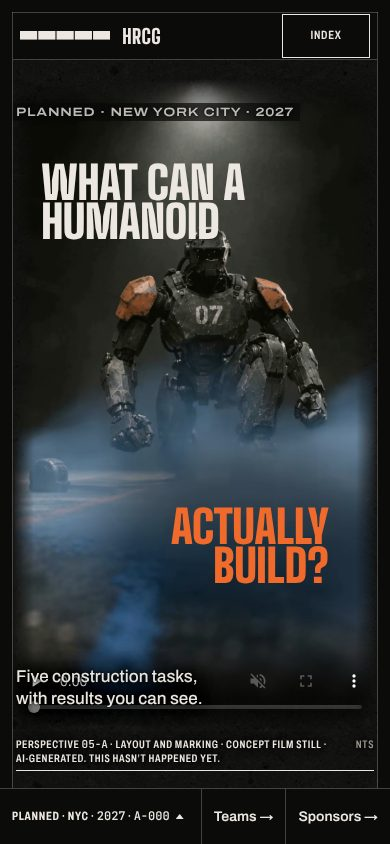
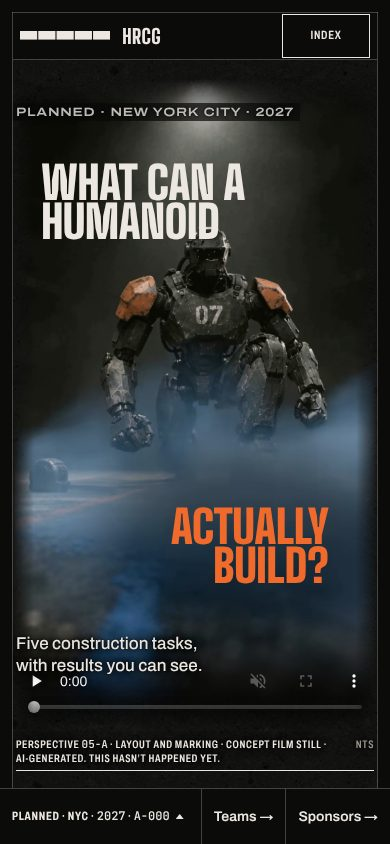
HRCG: fix wave 1 WIP
Claude-Session: https://claude.ai/code/session_015WdS4Z5aqY4SfmCswLAKaP

Changed region(s): [[0.0308, 0.7393, 0.5231, 0.8626]]

diff --git a/hrcg/src/hero/cover.css b/hrcg/src/hero/cover.css
@@ -486,7 +486,7 @@
 }
 /* no JS: the frame carries the film's native controls along its bottom edge; the sub stands clear of them */
 .no-js .cv-sub {
-  bottom: 52px;
+  bottom: 64px;
 }
 .cv-hint {
   position: absolute;

diff --git a/hrcg/pipeline/qa_shipped.py b/hrcg/pipeline/qa_shipped.py
@@ -32,13 +32,23 @@ def livery(f, plan):
         m[:int(0.06 * H)] = 0; m[int(0.94 * H):] = 0; m[:, :int(0.06 * W)] = 0; m[:, int(0.94 * W):] = 0
     n, lab, st, _ = cv2.connectedComponentsWithStats(m, 8)
     return int(sum(st[i, 4] for i in range(1, n) if st[i, 4] >= 12))
-# tool ROIs on the SHIPPED (registered) plan frame, normalised, a little larger than the mezz.py --livery2 boxes
-# (registration moves a bay by a few %); hue in degrees; frames in source frames (plans keep the frame count)
-TOOLS = {
-    'b41': [((8, 32), (0.10, 0.56, 0.29, 0.84), (0, 87)), ((8, 32), (0.10, 0.53, 0.33, 0.70), (72, 95)), ((8, 32), (0.28, 0.48, 0.64, 0.69), (84, 97)), ((8, 32), (0.46, 0.22, 0.78, 0.66), (94, 120))],
-    'b42': [((345, 15), (0.04, 0.04, 0.96, 0.96), (0, 120))],
-    'b43': [((345, 15), (0.66, 0.26, 0.92, 0.50), (0, 120))],
+# tool ROIs: the SAME source boxes as pipeline/run_mezz.sh --livery2 (normalised to the 1440² source bay), mapped
+# into the shipped (registered) frame with D7's per-axis scale/offset (pipeline/out/registration.json)
+SRC_TOOLS = {
+    'b41': [((8, 32), (0.12, 0.58, 0.27, 0.82), (0, 87)), ((8, 32), (0.12, 0.55, 0.31, 0.69), (72, 95)),
+            ((8, 32), (0.30, 0.50, 0.62, 0.67), (84, 97)), ((8, 32), (0.48, 0.24, 0.82, 0.66), (94, 120))],
+    'b42': [((345, 15), (0.06, 0.06, 0.94, 0.94), (0, 120))],
+    'b43': [((345, 15), (0.68, 0.28, 0.90, 0.48), (0, 120))],
 }
+REG = json.load(open(R + '/pipeline/out/registration.json')) if os.path.exists(R + '/pipeline/out/registration.json') else {}
+def reg_box(b, box):
+    r = REG.get(b)
+    if not r: return box
+    (sx, sy), (ox, oy) = r['scale'], r['offset']; x0, y0, x1, y1 = box
+    return ((x0 * 1440 * sx + ox) / 1440, (y0 * 1440 * sy + oy) / 1440, (x1 * 1440 * sx + ox) / 1440, (y1 * 1440 * sy + oy) / 1440)
+TOOLS = {b: [(h, reg_box(b, bx), fr) for h, bx, fr in rules] for b, rules in SRC_TOOLS.items()}
+# tape-measure ROIs (yellow-and-black trade dress, D11) in the clips that carry a tape: the hero films (c34, N01b)
+TAPE = {'hero-snap-169': (0.08, 0.60, 0.30, 0.84), 'hero-snap-916': (0.0, 0.52, 0.25, 0.68)}
 def tool_livery(f, rules, i):
     hsv = cv2.cvtColor(f.astype(np.float32) / 255., cv2.COLOR_BGR2HSV); h, sa, va = hsv[..., 0], hsv[..., 1], hsv[..., 2]
     H, W = h.shape; tot = 0
@@ -76,7 +86,11 @@ for id, e in man.items():
         if box:
             x0, y0, x1, y1 = int(box[0] * W), int(box[1] * H), int(box[2] * W), int(box[3] * H)
             pts.append(tophat_points(f[y0:y1, x0:x1]))
-        liv.append(livery(f, plan))
+        if id in TAPE:
+            x0, y0, x1, y1 = TAPE[id]; sub = f[int(y0 * H):int(y1 * H), int(x0 * W):int(x1 * W)]
+            liv.append(livery(np.ascontiguousarray(sub), False))
+        else:
+            liv.append(livery(f, plan))
         if trules: tl.append(tool_livery(f, trules, k_))
     res[id] = {'frames': len(frames), 'size': [W, H], 'visorPointsMax': max(pts) if pts else None,
                'visorFramesWithPoints': int(sum(1 for p in pts if p > 0)) if pts else None,
@@ -115,10 +129,19 @@ for pth in cands:
     if not os.path.exists(pth): continue
     im = cv2.imread(pth)
     if im is None: continue
-    y = livery(im, False) * (1440 * 1440) / (im.shape[0] * im.shape[1])
-    stills[os.path.relpath(pth, R)] = {'yellowPx': int(livery(im, False)), 'redPx': red_px(im), 'liveryFrames': int(livery(im, False) >= 25 or red_px(im) >= 200)}
+    bay = os.path.basename(pth).startswith('b4')          # bay stills: the yellow bay border is not livery
+    ypx = livery(cv2.resize(im, (1440, 1440)) if bay else im, bay)
+    stills[os.path.relpath(pth, R)] = {'yellowPx': int(ypx), 'redPx': red_px(im), 'liveryFrames': int(ypx >= 25 or red_px(im) >= 200)}
 res['_stills'] = stills
-res['_summary'] = {'liveryFrames': int(sum(v.get('liveryFrames') or 0 for k, v in res.items() if not k.startswith('_')) + sum(v['liveryFrames'] for v in stills.values())),
-                   'toolLiveryFrames': int(sum(v.get('toolLiveryFrames') or 0 for k, v in res.items() if not k.startswith('_')))}
+# The GATE (F-010 / F-048): tape-measure livery in the clips that carry a tape (TAPE ROIs) and in b44 (bay band
+# excluded), tool livery in the plan tool ROIs, and every social card / poster / film still. Yellow found elsewhere
+# is the set's own brass fittings, copper, bricks or the bay tape of the arena row: listed, not gated.
+GATED = set(TAPE) | {k for k in res if k.startswith('plan-b44')}
+res['_summary'] = {'liveryFrames': int(sum(res[k].get('liveryFrames') or 0 for k in GATED if k in res) + sum(v.get('toolLiveryFrames') or 0 for k, v in res.items() if not k.startswith('_'))
+                                       + sum(v['liveryFrames'] for v in stills.values())),
+                   'toolLiveryFrames': int(sum(v.get('toolLiveryFrames') or 0 for k, v in res.items() if not k.startswith('_'))),
+                   'tapeLiveryFrames': int(sum(res[k].get('liveryFrames') or 0 for k in GATED if k in res)),
+                   'stillsLivery': int(sum(v['liveryFrames'] for v in stills.values())),
+                   'yellowElsewhereInfo': {k: v['liveryFrames'] for k, v in res.items() if not k.startswith('_') and k not in GATED and v.get('liveryFrames')}}
 print('_stills', json.dumps(stills)); print('_summary', json.dumps(res['_summary']))
 json.dump(res, open(R + '/pipeline/out/assets-shipped.json', 'w'), indent=1)

diff --git a/hrcg/pipeline/freeze.py b/hrcg/pipeline/freeze.py
@@ -321,7 +321,8 @@ def stretch_gate(yaw, pitch, dolly, pivot, k=1.0, nbs=None):
     in1 = i_ac & i_ab & i_cb; in2 = i_cb & i_bd & i_cd
     cx = ((np.arange(COLS - 1) + .5) / (COLS - 1) * (W - 1)).astype(int); cy = ((np.arange(ROWS - 1) + .5) / (ROWS - 1) * (H - 1)).astype(int)
     dist = cv2.distanceTransform((MATTE < 0.5).astype(np.uint8), cv2.DIST_L2, 5)[cy][:, cx]
-    band = (dist <= 3 * CELL) & (cy[:, None] <= MATTE_CUT - 3 * CELL)
+    # above the matte's soft cut (ramp 0.03 H): along the cut the matte edge is the horizontal cut, not 07's silhouette
+    band = (dist <= 3 * CELL) & (cy[:, None] <= MATTE_CUT - 0.03 * H - 3 * CELL)
     vis = np.concatenate([vis1, vis2]); inm = np.concatenate([in1, in2]); bnd = np.concatenate([band, band])
     # a STREAK is a visible triangle that spans a depth step (z range >= EDGE_LO, A2's own continuity threshold);
     # smoothly sloped triangles (07's relief, the floor) deform with the view and are geometry, not streaks

diff --git a/hrcg/pipeline/README.md b/hrcg/pipeline/README.md
@@ -15,19 +15,19 @@ This folder turns the raw concept clips and stills into everything under `public
 |---|---|---|---|
 | D11 | `measure.py` | Per-frame visor-glint and yellow-livery scan, plus an SSIM seam search (≥0.97 overall and ≥0.90 inside the motion mask). It also measures bay borders. | `out/assets-*.json`, `out/seams.json` |
 | D4 | `crowdcrush.py` | Depth at 518 px on every 2nd frame, stabilised (median-aligned + EMA). | `$S/a5tmp/depth/*.npy` |
-| mezz | `mezz.py`, `run_mezz.sh` | Crop 1920×1076 @ x2, livery shift (masked hue/sat), white-point visor suppression, grade (§5.6), crowd crush toward `#0B0B0A` (dilate 10 px, feather). Encoded as x264 crf 14. | `$S/a5tmp/mezz/*.mp4` |
+| mezz | `mezz.py`, `run_mezz.sh` | Crop 1920×1076 @ x2, livery shift (masked hue/sat), white-point visor suppression, grade (§5.6), crowd crush toward `#0B0B0A`. Encoded as x264 crf 14. FIXLIST-1: `--crushmode 2` (c31, c32, c33, N09: matte re-keyed to the frame's edges, eroded 3 px, feathered outward only, grain re-added; no halos), `--studs` (c31: gaps between studs), `--livery2` (orange/red power tools → graphite in per-clip, per-frame-range ROIs, 07's pads excluded; b41 battery label smudged), `--smudge` (c34 tape-housing lettering). `MD=<dir>` dumps the masks. | `$S/a5tmp/mezz/*.mp4` |
 | D7 | `register.py` | Per-axis scale of each bay so its yellow border lands on 120–1320 of 1440 (re-measured, max error 2.5 px). | `$S/a5tmp/reg/*.mp4`, `out/rects.json`, `out/registration.json` |
-| R1/R2 | `plates.py` | Every site video (crops per §7c), AV1 (SVT) + H.264, each fitted to its §7e budget by a CRF ladder. Posters are AVIF + JPEG. Accepted seams loop with a 12-frame crossfade. Arena: bays 01–04 at phase offsets 0/0.4/0.8/1.2 s, each holding its last frame. | `public/media/{plans,perspectives,details,arena}`, `out/plates.json` |
+| R1/R2 | `plates.py` | Every site video (crops per §7c), AV1 (SVT) + H.264, each fitted to its §7e budget by a CRF ladder. Posters are AVIF + JPEG. Accepted seams loop with a 12-frame crossfade. Arena: bays 01–04 at phase offsets 0/0.4/0.8/1.2 s, each holding its last frame. FIXLIST-1: el-c31 is the 4:5 window x 845, rows 371–1076 (head out, board + forearms in); plan-b40 plays frames 0–10 and holds (the course grows mortar slabs after that); det-n03 plays 0–84 (no socket lettering). | `public/media/{plans,perspectives,details,arena}`, `out/plates.json` |
 | D8 | `burst.py` | Plume peak by blue-pixel count (c34 = 84, N01b = 100). | stdout |
-| R3 + D1/D2 | `hero.py`, `freeze.py`, `run_hero.sh` | 25-frame hero film whose last frame is the freeze. The NEAR darkening is computed by `freeze.py --analyse` and baked into the film. DA2-S on the AV1 last frame → vertex grid `.bin`. Also outputs both codec stills, plate, near-matte, meta, and gates: FAR bite, NEAR ≥3:1, nine limit poses with A2's 12% overscan ring. | `public/media/hero/*`, `$S/a5qa/d1/*.png` |
+| R3 + D1/D2 | `hero.py`, `freeze.py`, `run_hero.sh` | 25-frame hero film whose last frame is the freeze. The NEAR darkening is computed by `freeze.py --analyse` and baked into the film. DA2-S on the AV1 last frame → vertex grid `.bin`. Also outputs both codec stills, plate, near-matte, meta, and gates: FAR bite, NEAR ≥3:1, nine limit poses with A2's 12% overscan ring. FIXLIST-1 F-008/F-046: depth "nearer wins" (dilated, hard step at 07's upper body, smooth relief), matte = core + 3 px, stretch-past-matte gate under A2's F-004 material, per-glyph FAR gate at A2's layout. `run_hero.sh all --refreeze` redoes only the freeze from the shipped films. | `public/media/hero/*`, `$S/a5qa/d1/*.png` |
 | D3 | `section.py` | Cleanest pre-snap c34 frame (18–30), depth (monotonically equalised so contours read on 07), 8-bit PNG, plus the three no-GL stills from the §4.2 formula at s = 0.1 / 0.5 / 0.9. | `public/media/section/*` |
 | D5 | `lines.py` | b44 chalk lines at 2.60 s in the registered frame: curated structure with measured positions, the fresh line, gridlines, and the plan-cut scale gate. | `public/media/data/lines-b44.json` |
 | D6 | `trace_t43.py` | Task drawing traced from the registered b43 (temporal median). | `public/media/data/trace-t43.svg` |
 | D9 | `targets.py` | T7: SVGs, Letter/A4 PDFs (vector, printed edge 15.0 cm), proof strip and JSON. Detection is re-checked on every exported file. | `public/media/data/t7-*`, `public/kit/*`, `public/media/stills/t7-proof.*` |
-| stills | `stills.py` | Clean slab tile (full exposure; A1 multiplies it by rgb(31 31 30)), hero grounds pre-multiplied to match, ref21, N02, N07 crops, plan-b44-260. | `public/media/{tex,hero,stills,plans}` |
+| stills | `stills.py` | Clean slab tile (full exposure; A1 multiplies it by rgb(31 31 30)), hero grounds pre-multiplied to match, ref21, N02, N07 crops, plan-b44-260. H-2b: the hero grounds carry a 12% pre-snap ghost (16:9: the hero film's frame 0 = c34 f60; 9:16: N01b f48). `--only ids`, `--ghost k`. | `public/media/{tex,hero,stills,plans}` |
 | film | `export_film.sh` | Graded mezzanines for A7. | `film/public/clips/` + README |
-| QA | `qa_shipped.py` | D11 on every shipped AV1 file, plus contact sheets. | `out/assets-shipped.json` |
-| manifest | `build_manifest.py` | Writes the manifest from the id spec and the files on disk. Byte sizes and codec strings are measured; seams and rects are read from `out/`. | `src/media/manifest.json` |
+| QA | `qa_shipped.py` | D11 on every shipped AV1 file, plus contact sheets; FIXLIST-1: tool livery in the plan tool ROIs, tape ROIs in the hero films, the social cards / posters / film stills, and an every-12th-frame sheet per clip for the manual crowd sign-off. `_summary.liveryFrames` is the gate. | `out/assets-shipped.json`, `$S/a5qa/shipped/` |
+| manifest | `build_manifest.py` | Writes the slim runtime manifest (F-045: only the fields the site reads) and the full QA copy with byte sizes, kinds and debug fields. Codec strings are measured; seams and rects are read from `out/`; b44's line endpoints are the stripe core measured in `plan-b44-260.jpg` (F-051). | `src/media/manifest.json`, `out/manifest-qa.json` |
 | mock | `mock.sh`, `mockdata.py`, `img.py` | First-wave placeholders at the final paths. | — |
 
 **Order:** `measure` → `crowdcrush` → `run_mezz` → `register` → `measure` (seams on mezzanines) → `plates` → `run_hero` → `section` → `lines` → `trace_t43` → `targets` → `stills` → `export_film` → `build_manifest` → `qa_shipped`.
